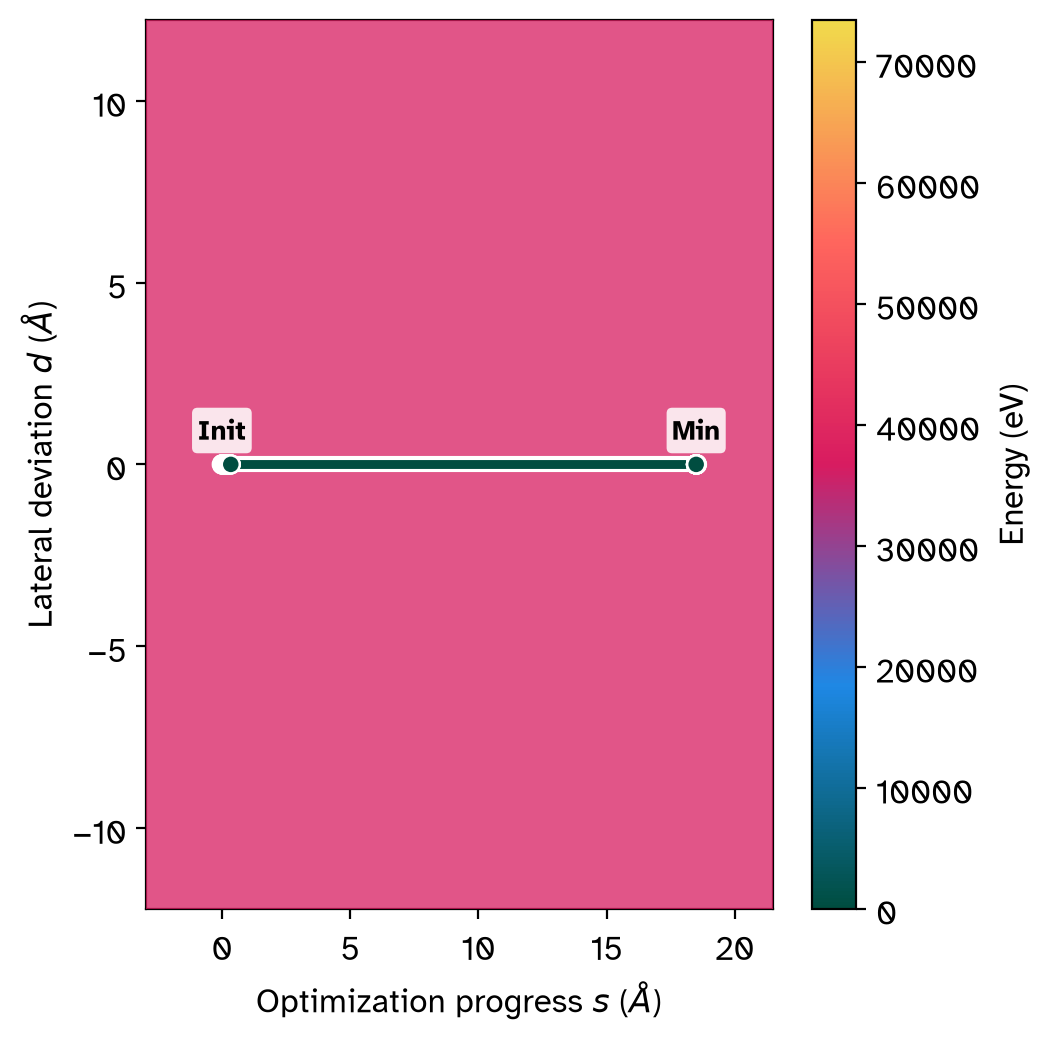
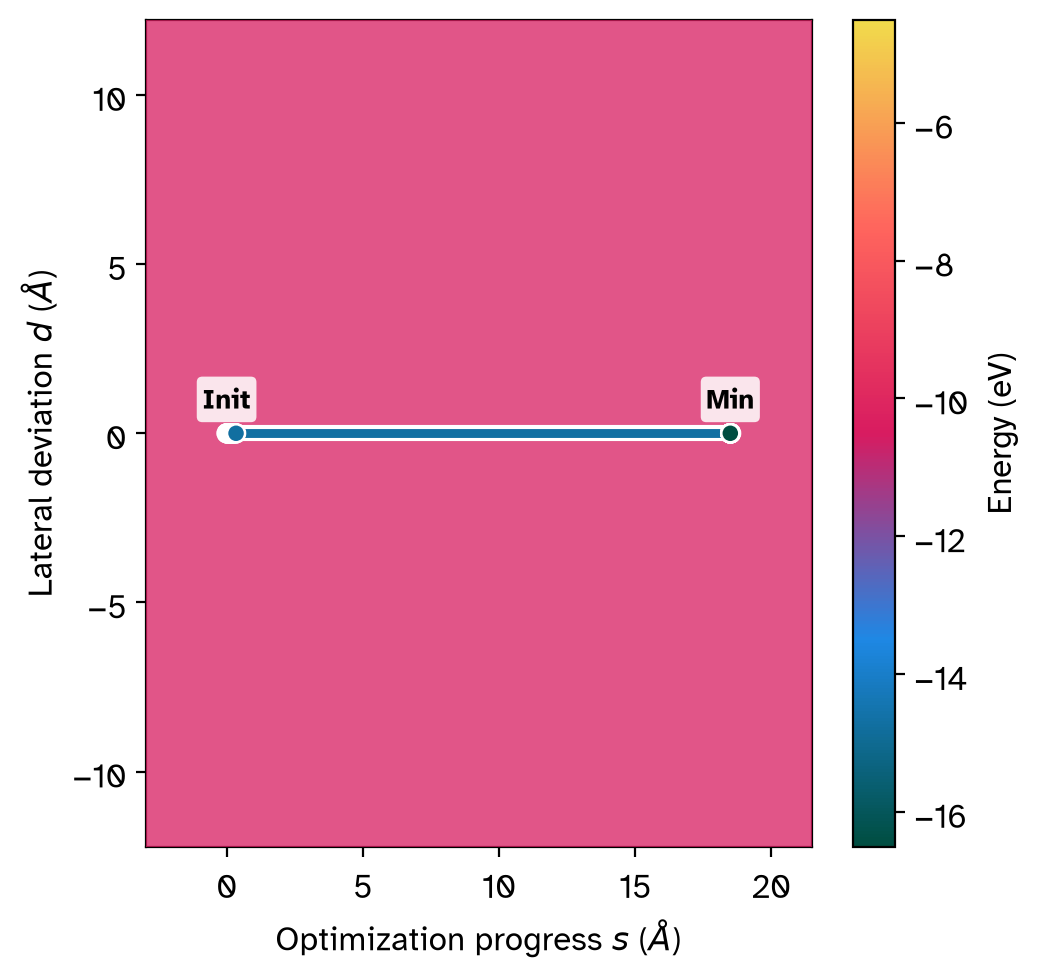
fix(eonviz): cap landscape energies so the colorbar resolves the LJ well
The perturbed start's r^-12 repulsion spiked one frame to ~10^4 eV, flattening
the colormap over the entire bound region. Render the (s,d) landscape directly
(plt-min has no cap flag) and clip energies to a 12 eV window above the
converged minimum, so the colorbar spans the well (-16.5 to -5 eV) and the path
is energy-colored from Init to Min.

Changed region(s): [[0.0923, 0.0, 0.9846, 0.9184], [0.2462, 0.949, 0.6462, 0.9796], [0.0, 0.2755, 0.0615, 0.6122]]

diff --git a/tests/eon_min_landscape.py b/tests/eon_min_landscape.py
@@ -24,8 +24,11 @@ import sys
 from pathlib import Path
 
 import ase.io as aseio
+import matplotlib
 import numpy as np
 from ase import Atoms
+
+matplotlib.use("Agg")
 
 MIN_CONFIG = """[Main]
 job = minimization
@@ -55,6 +58,66 @@ def _run_eon(job_dir: Path) -> None:
                    stdout=subprocess.DEVNULL, stderr=subprocess.DEVNULL)
 
 
+def _render_landscape(job_dir: Path, out: Path, *, energy_cap: float | None) -> None:
+    """Render the (s, d) landscape, capping energies so the repulsive r^-12
+    spike of the perturbed start does not flatten the colormap over the well.
+
+    Mirrors ``rgpycrumbs eon plt-min --plot-type landscape`` but clips the
+    energies fed to the surface fit and colorbar (the CLI has no cap flag)."""
+    from chemparseplot.parse.eon.min_trajectory import load_min_trajectory
+    from chemparseplot.parse.neb_utils import (
+        calculate_landscape_coords,
+        compute_synthetic_gradients,
+    )
+    from chemparseplot.plot.optimization import (
+        annotate_endpoint,
+        create_landscape_axes,
+        plot_optimization_landscape,
+        project_landscape_path,
+    )
+    from chemparseplot.plot.structs import convert_energy
+    from chemparseplot.plot.theme import get_theme, setup_global_theme
+
+    try:
+        from rgpycrumbs._aux import _import_from_parent_env
+
+        ira_mod = _import_from_parent_env("ira_mod")
+    except ImportError:
+        ira_mod = None
+    ira_instance = ira_mod.IRA() if ira_mod else None
+
+    traj = load_min_trajectory(job_dir, prefix="minimization")
+    rmsd_a, rmsd_b = calculate_landscape_coords(
+        traj.atoms_list, ira_instance, 14.0,
+        ref_a=traj.initial_atoms, ref_b=traj.final_atoms,
+    )
+    energies = convert_energy(traj.dat_df["energy"].to_numpy(), "eV")
+    n = min(len(rmsd_a), len(energies))
+    rmsd_a, rmsd_b, energies = rmsd_a[:n], rmsd_b[:n], energies[:n]
+
+    # Cap the few high-energy frames near the perturbed start so the colorbar
+    # resolves the bound LJ well instead of the r^-12 wall. Default: a 12 eV
+    # window above the converged minimum.
+    cap = energy_cap if energy_cap is not None else float(np.min(energies)) + 12.0
+    energies = np.minimum(energies, cap)
+
+    f_para = -np.gradient(energies)
+    grad_a, grad_b = compute_synthetic_gradients(rmsd_a, rmsd_b, f_para)
+
+    theme = get_theme("ruhi")
+    setup_global_theme(theme)
+    fig, ax, _ = create_landscape_axes(dpi=200, has_strip=False, theme=theme)
+    plot_optimization_landscape(
+        ax, rmsd_a, rmsd_b, grad_a, grad_b, energies,
+        project_path=True, method="grad_matern",
+        cmap=theme.cmap_landscape, label_mode="optimization", energy_unit="eV",
+    )
+    px, py, _ = project_landscape_path(rmsd_a, rmsd_b, project_path=True)
+    annotate_endpoint(ax, float(px[0]), float(py[0]), "Init", boxed=True)
+    annotate_endpoint(ax, float(px[-1]), float(py[-1]), "Min", boxed=True)
+    fig.savefig(out, dpi=200, bbox_inches="tight")
+
+
 def main() -> int:
     work = Path(sys.argv[1]) if len(sys.argv) > 1 else Path("build-eon-min")
     out = Path(sys.argv[2]) if len(sys.argv) > 2 else Path(
@@ -80,12 +143,9 @@ def main() -> int:
     _write_case(run, perturbed)
     _run_eon(run)
 
-    # 3. Render the (s, d) optimization landscape with the trajectory overlaid.
-    cmd = [
-        sys.executable, "-m", "rgpycrumbs.eon.plt_min",
-        "--job-dir", str(run), "--plot-type", "landscape", "-o", str(out),
-    ]
-    subprocess.run(cmd, check=True)
+    # 3. Render the (s, d) optimization landscape with the trajectory overlaid,
+    #    capping energies so the colorbar resolves the bound well.
+    _render_landscape(run, out, energy_cap=None)
     print(f"wrote {out}")
     return 0
 
